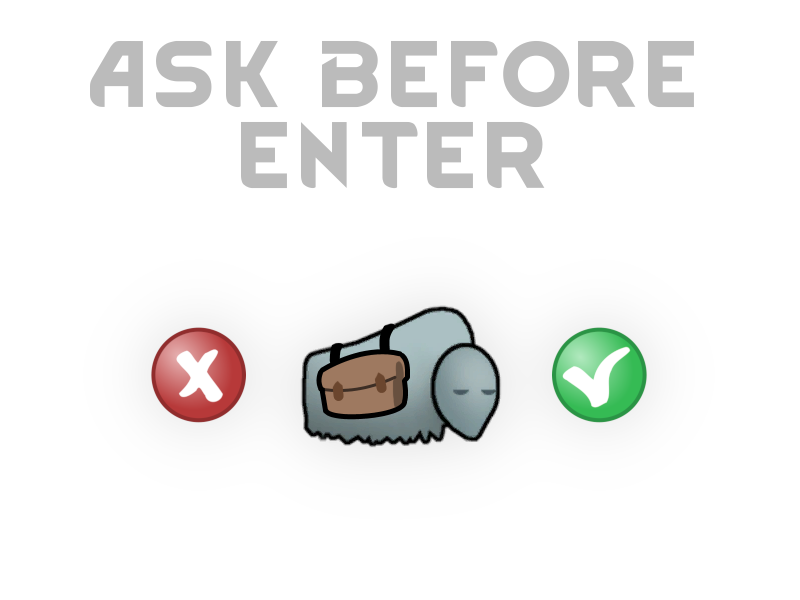
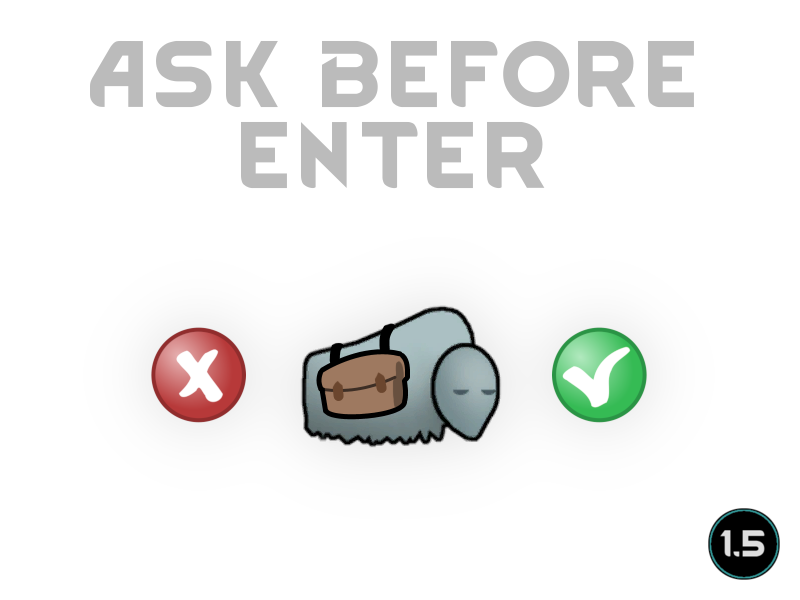
Ask before enter 1.5

Changed region(s): [[0.875, 0.84, 1.0, 0.99]]

diff --git a/Mods/Ask Before Enter/README.md b/Mods/Ask Before Enter/README.md
@@ -1,7 +1,7 @@
 # AskBeforeEnter
-
-![Image](https://i.imgur.com/iCj5o7O.png)
 
+
+![Image](https://i.imgur.com/iCj5o7O.png)
 
 Sometimes that trader caravan enters just at the wrong time, triggering the dormant mech cluster leading to the premature destruction of your base. 
 
@@ -11,28 +11,26 @@ This also triggers for visitor-groups and travelers passing through your map.
 
 You can select what groups to trigger for in the mod-options.
 
-Works well as a companion mod for https://steamcommunity.com/sharedfiles/filedetails/?id=2824117092]Enter Here
+Works well as a companion mod for [https://steamcommunity.com/sharedfiles/filedetails/?id=2824117092](Enter Here)
 
-https://steamcommunity.com/sharedfiles/filedetails/?id=2288125657]![Image](https://i.imgur.com/kNldlMg.png)
-
+[https://steamcommunity.com/sharedfiles/filedetails/?id=2288125657]![Image]((https://i.imgur.com/kNldlMg.png))
 
 ![Image](https://i.imgur.com/Ds0rBAD.png)
+Since modding is just a hobby for me I expect no donations to keep modding. If you still want to show your support you can gift me anything from my [https://store.steampowered.com/wishlist/id/Mlie](Wishlist) or buy me a cup of tea.
 
-Since modding is just a hobby for me I expect no donations to keep modding. If you still want to show your support you can gift me anything from my https://store.steampowered.com/wishlist/id/Mlie]Wishlist or buy me a cup of tea.
-
-https://ko-fi.com/G2G55DDYD]![Image](https://i.imgur.com/VWG0yff.png)
-
+[https://ko-fi.com/G2G55DDYD]![Image]((https://i.imgur.com/VWG0yff.png))
 
 ![Image](https://i.imgur.com/5xwDG6H.png)
 
 
-
 -  See if the the error persists if you just have this mod and its requirements active.
 -  If not, try adding your other mods until it happens again.
--  Post your error-log using https://steamcommunity.com/workshop/filedetails/?id=818773962]HugsLib and command Ctrl+F12
+-  Post your error-log using [https://steamcommunity.com/workshop/filedetails/?id=818773962]HugsLib[/url] or the standalone [url=https://steamcommunity.com/sharedfiles/filedetails/?id=2873415404](Uploader) and command Ctrl+F12
 -  For best support, please use the Discord-channel for error-reporting.
 -  Do not report errors by making a discussion-thread, I get no notification of that.
 -  If you have the solution for a problem, please post it to the GitHub repository.
+-  Use [https://github.com/RimSort/RimSort/releases/latest](RimSort) to sort your mods
 
 
-https://steamcommunity.com/sharedfiles/filedetails/changelog/2813027453]Last updated 2023-05-01
+
+[https://steamcommunity.com/sharedfiles/filedetails/changelog/2813027453]![Image]((https://img.shields.io/github/v/release/emipa606/AskBeforeEnter?label=latest%20version&style=plastic&labelColor=0070cd&color=white))
